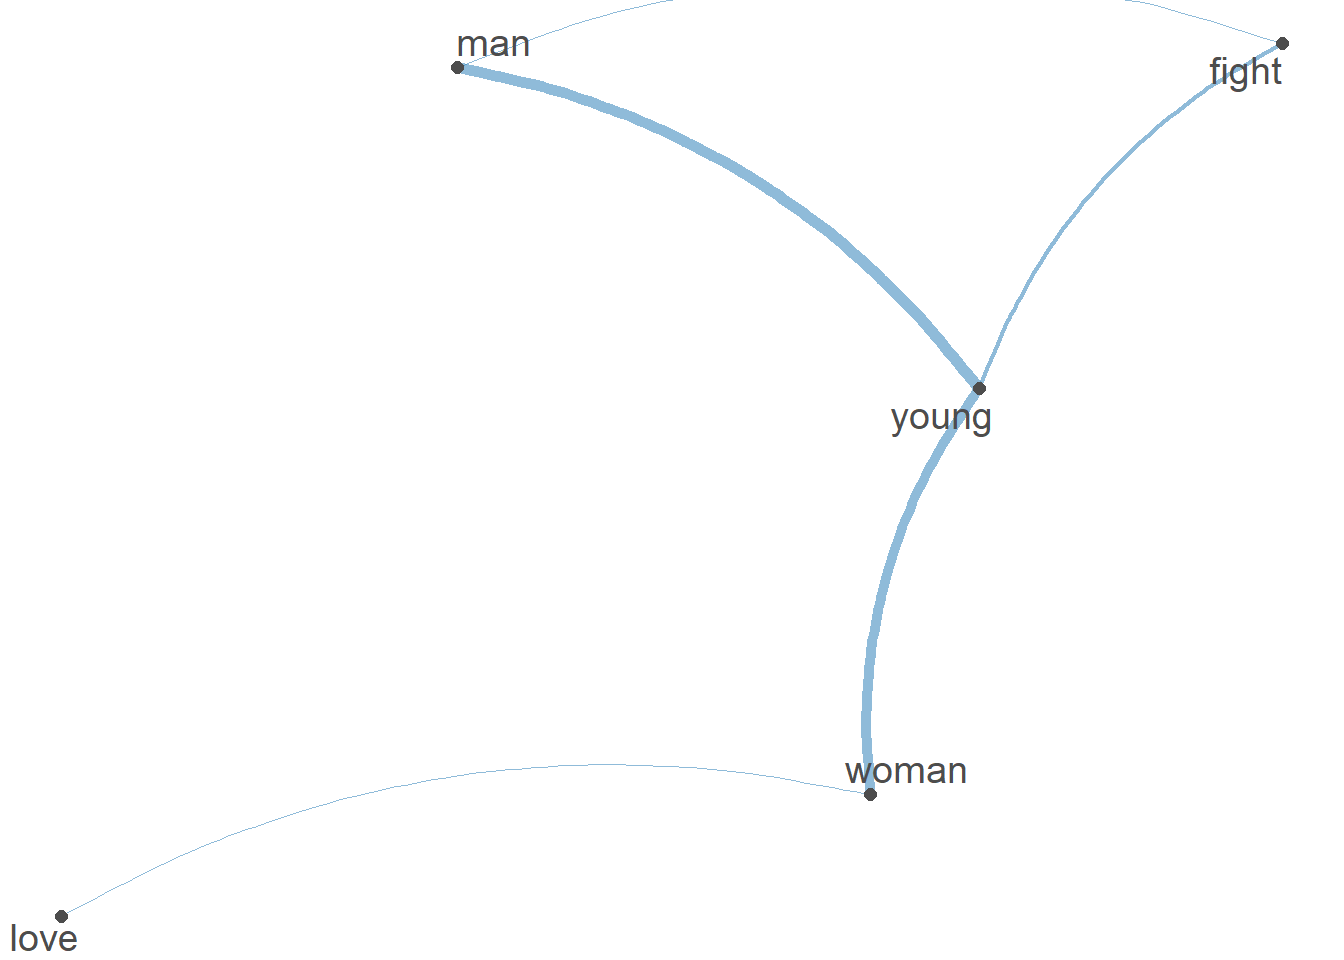
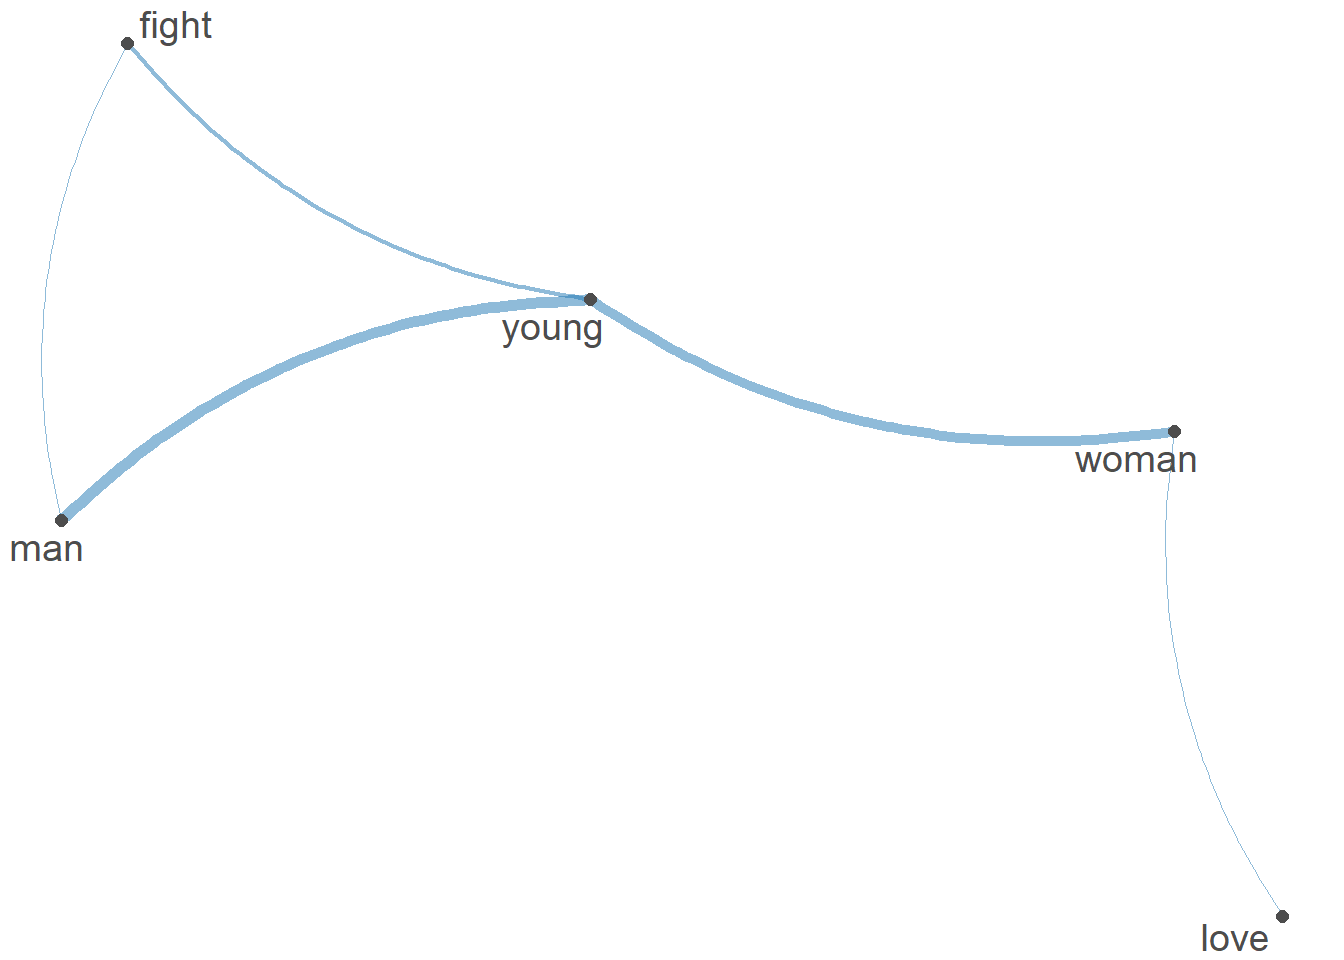
finalize tut2

diff --git a/docs/tutorial/02-cooccurrence.html b/docs/tutorial/02-cooccurrence.html
@@ -571,24 +571,40 @@ features  nine nobl famili fight control land westero ancient enemi return
 </div>
 <section id="aufgabe-1" class="level3">
 <h3 class="anchored" data-anchor-id="aufgabe-1">Aufgabe 1 📌</h3>
-<p>Die folgende Übung fasst alles zusammen, was wir bisher gelernt haben: Preprocessing und N-Grams.</p>
-<p>Bitte arbeite für die Übung mit dem Horoskop-Datensatz (Download der CSV-Datei entweder via der Webseite oder Einlesen via <a href="https://raw.githubusercontent.com/valeriehase/textasdata-ms/main/data/data_horoscope.csv">dieser</a> URL)</p>
-<ol type="1">
-<li>Lese den Datensatz ein und verschaffe dir einen Überblick über die Daten. Welche Variablen sind dort vorhanden?</li>
-</ol>
-<ol start="2" type="1">
-<li>Bereite den Datensatz durch Preprocessing und das Umwandeln in eine DFM für die Analyse vor. Hinterfrage kritisch, welche Bereinigung- und Normalisierungsschritte du tatsächlich braucht.</li>
-</ol>
-<ol start="3" type="1">
-<li>Schauen wir uns für eine erste Analyse an, bei welchem Sternzeichen es am mysteriösesten wird: Bei welchem Sternzeichen fällt am häufigsten das Stichwort “secret”?</li>
-</ol>
-<ol start="4" type="1">
-<li><p>Was kommt öfter vor: “secret fears” oder “in love”? #Notiz für uns: n-gramme</p></li>
-<li><p>Finde heraus welcher der Planeten am meisten in Zusammenhang mit Veränderungen und Neuanfängen genannt wird. #Notiz für uns: Co-Occurrence</p></li>
-<li><p>Was wird den Lesenden geraten mit ihrem Geld zu machen? #Notiz für uns: POS tagging und dann Verben zu money oder dependency parsing</p></li>
-</ol>
+<p>Die folgende Übung fasst alles zusammen, was wir bisher gelernt haben: Preprocessing und Co-Occurrence Analysen.</p>
+<p>Bitte arbeitet für die Übung mit dem Horoskop-Datensatz (Download der CSV-Datei entweder via der Webseite oder Einlesen via <a href="https://raw.githubusercontent.com/valeriehase/textasdata-ms/main/data/data_horoscope.csv">dieser</a> URL)</p>
+<section id="aufgabe-1.1" class="level4">
+<h4 class="anchored" data-anchor-id="aufgabe-1.1">Aufgabe 1.1 📌</h4>
+<p>Lest den Datensatz ein und verschafft euch einen Überblick über die Daten. Welche Variablen sind dort vorhanden?</p>
+</section>
+<section id="aufgabe-1.2" class="level4">
+<h4 class="anchored" data-anchor-id="aufgabe-1.2">Aufgabe 1.2 📌</h4>
+<p>Bereitet den Datensatz durch Preprocessing und das Umwandeln in eine DFM für die Analyse vor. Hinterfragt kritisch, welche Bereinigung- und Normalisierungsschritte ihr tatsächlich braucht.</p>
+</section>
+<section id="aufgabe-1.3" class="level4">
+<h4 class="anchored" data-anchor-id="aufgabe-1.3">Aufgabe 1.3 📌</h4>
+<p>Schaut euch als erste Analyse an, welcher Ausdrück häufiger vorkommt: “secret fear” oder “in love”?</p>
+</section>
+<section id="aufgabe-1.4" class="level4">
+<h4 class="anchored" data-anchor-id="aufgabe-1.4">Aufgabe 1.4 📌</h4>
+<p>Jetzt wollen wir wissen, bei welchem Sternzeichen es am mysteriösesten wird: Bei welchem Sternzeichen fällt am häufigsten das Stichwort “secret”?</p>
+</section>
+<section id="aufgabe-1.5" class="level4">
+<h4 class="anchored" data-anchor-id="aufgabe-1.5">Aufgabe 1.5 📌</h4>
+<p>Visualisiert auf Basis eines semantischen Netzwerk, mit welchen Adjektiven die Sternzeichen “Aquarius” (Wassermann) vs.&nbsp;“Gemini” (Zwilling) häufig in den Horoskopen assoziiert werden.</p>
+<p>Das Netzwerk könnte etwa so aussehen:</p>
+<div class="cell">
+<div class="cell-output-display">
+<div>
+<figure class="figure">
+<p><img src="02-cooccurrence_files/figure-html/unnamed-chunk-23-1.png" class="img-fluid figure-img" width="672"></p>
+</figure>
+</div>
+</div>
+</div>
 
 
+</section>
 </section>
 </section>
 
